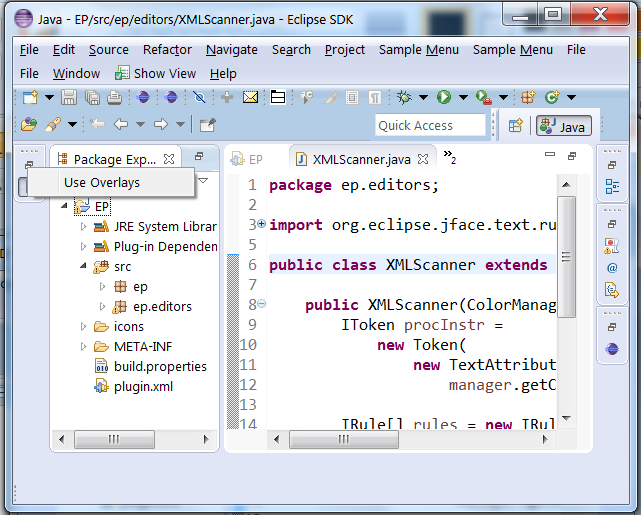
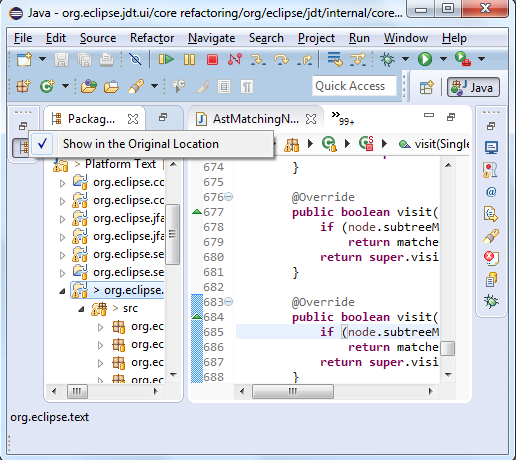
Updated 4.4 M5 N&N - New option for minimized stacks

diff --git a/4.4/M5/index.html b/4.4/M5/index.html
@@ -34,14 +34,14 @@
     <li>Use Overlays: This is the current mode where showing a view in a
     minimized stack opens it in a 'fly out', overlaying part of the
     presentation.</li>
-    <li>Temporary Restore: This is a new mode that will temporarily put the
+    <li>Show in the Original Location: This is a new mode that will temporarily put the
     stack back into the perspective layout while one of its views is active. This
     has the advantage that the minimized view won't overlay anything in the
     current presentation (e.g. your editor...).</li>
     </ul>
     <p>
     In order to access the new mode, right-click on the <b>Restore</b> button
-    of a minimized stack and clear the <b>Use Overlays</b> menu item (see image
+    of a minimized stack and select the <b>Show in the Original Location</b> menu item (see image
     below). Note that this change is global, so once it's set, all minimized
     stacks will use the selected mode.</p>
     <p><img src="images/restore-btn.png" alt=""/></p>
